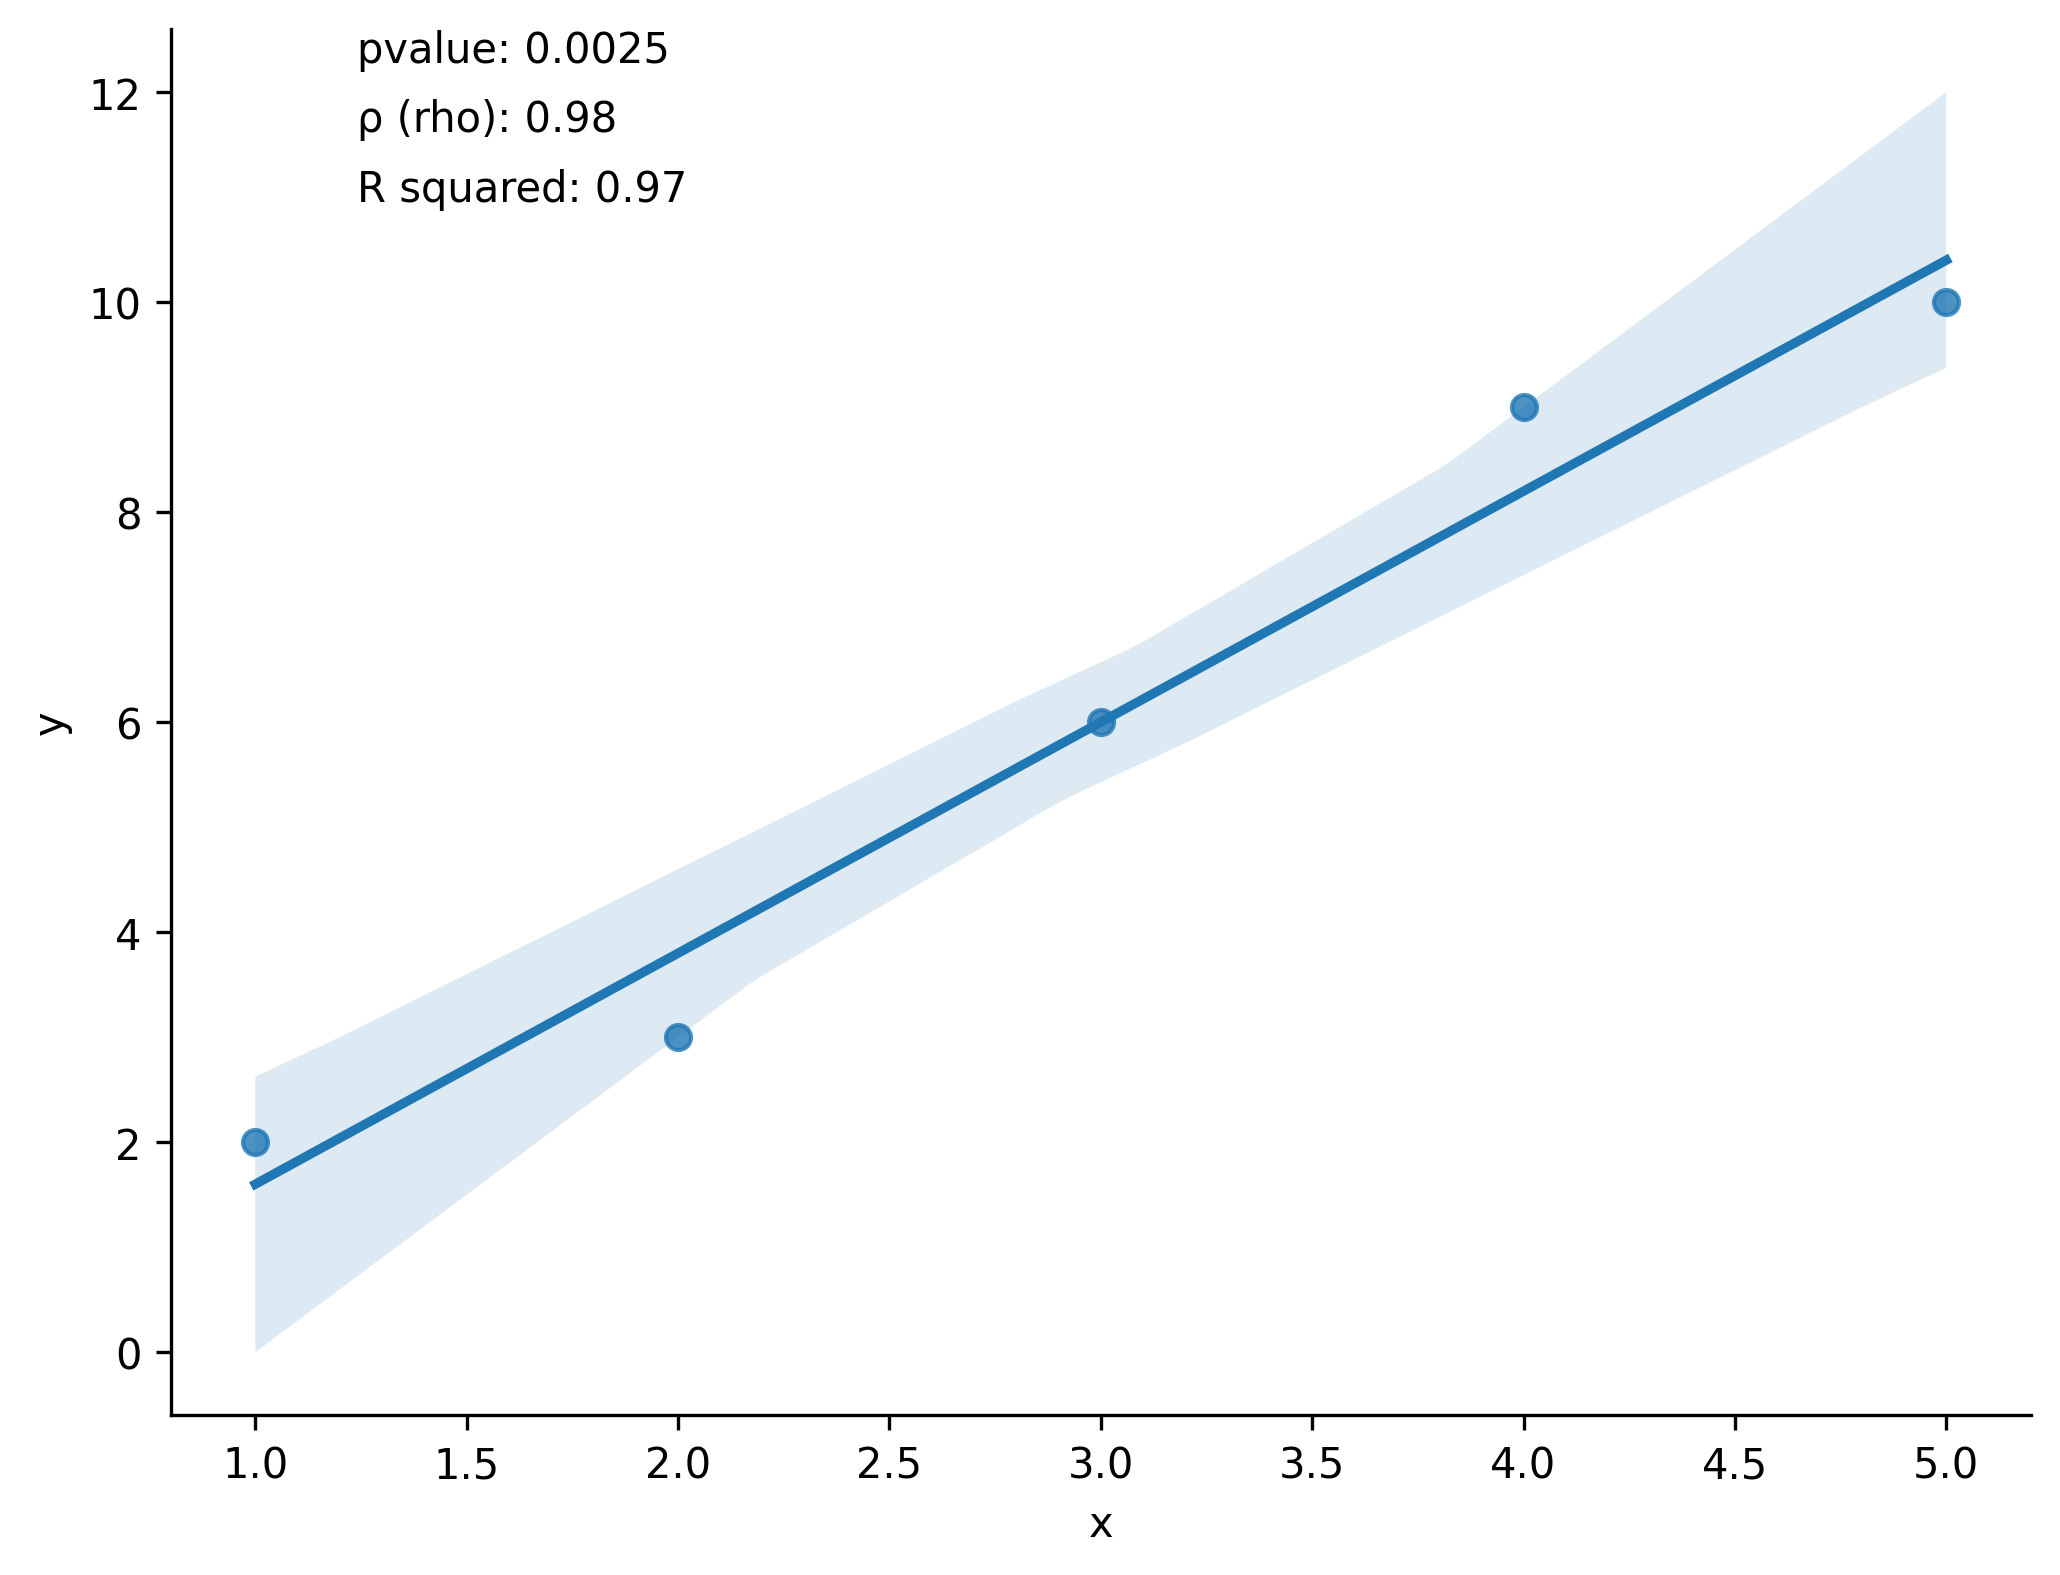
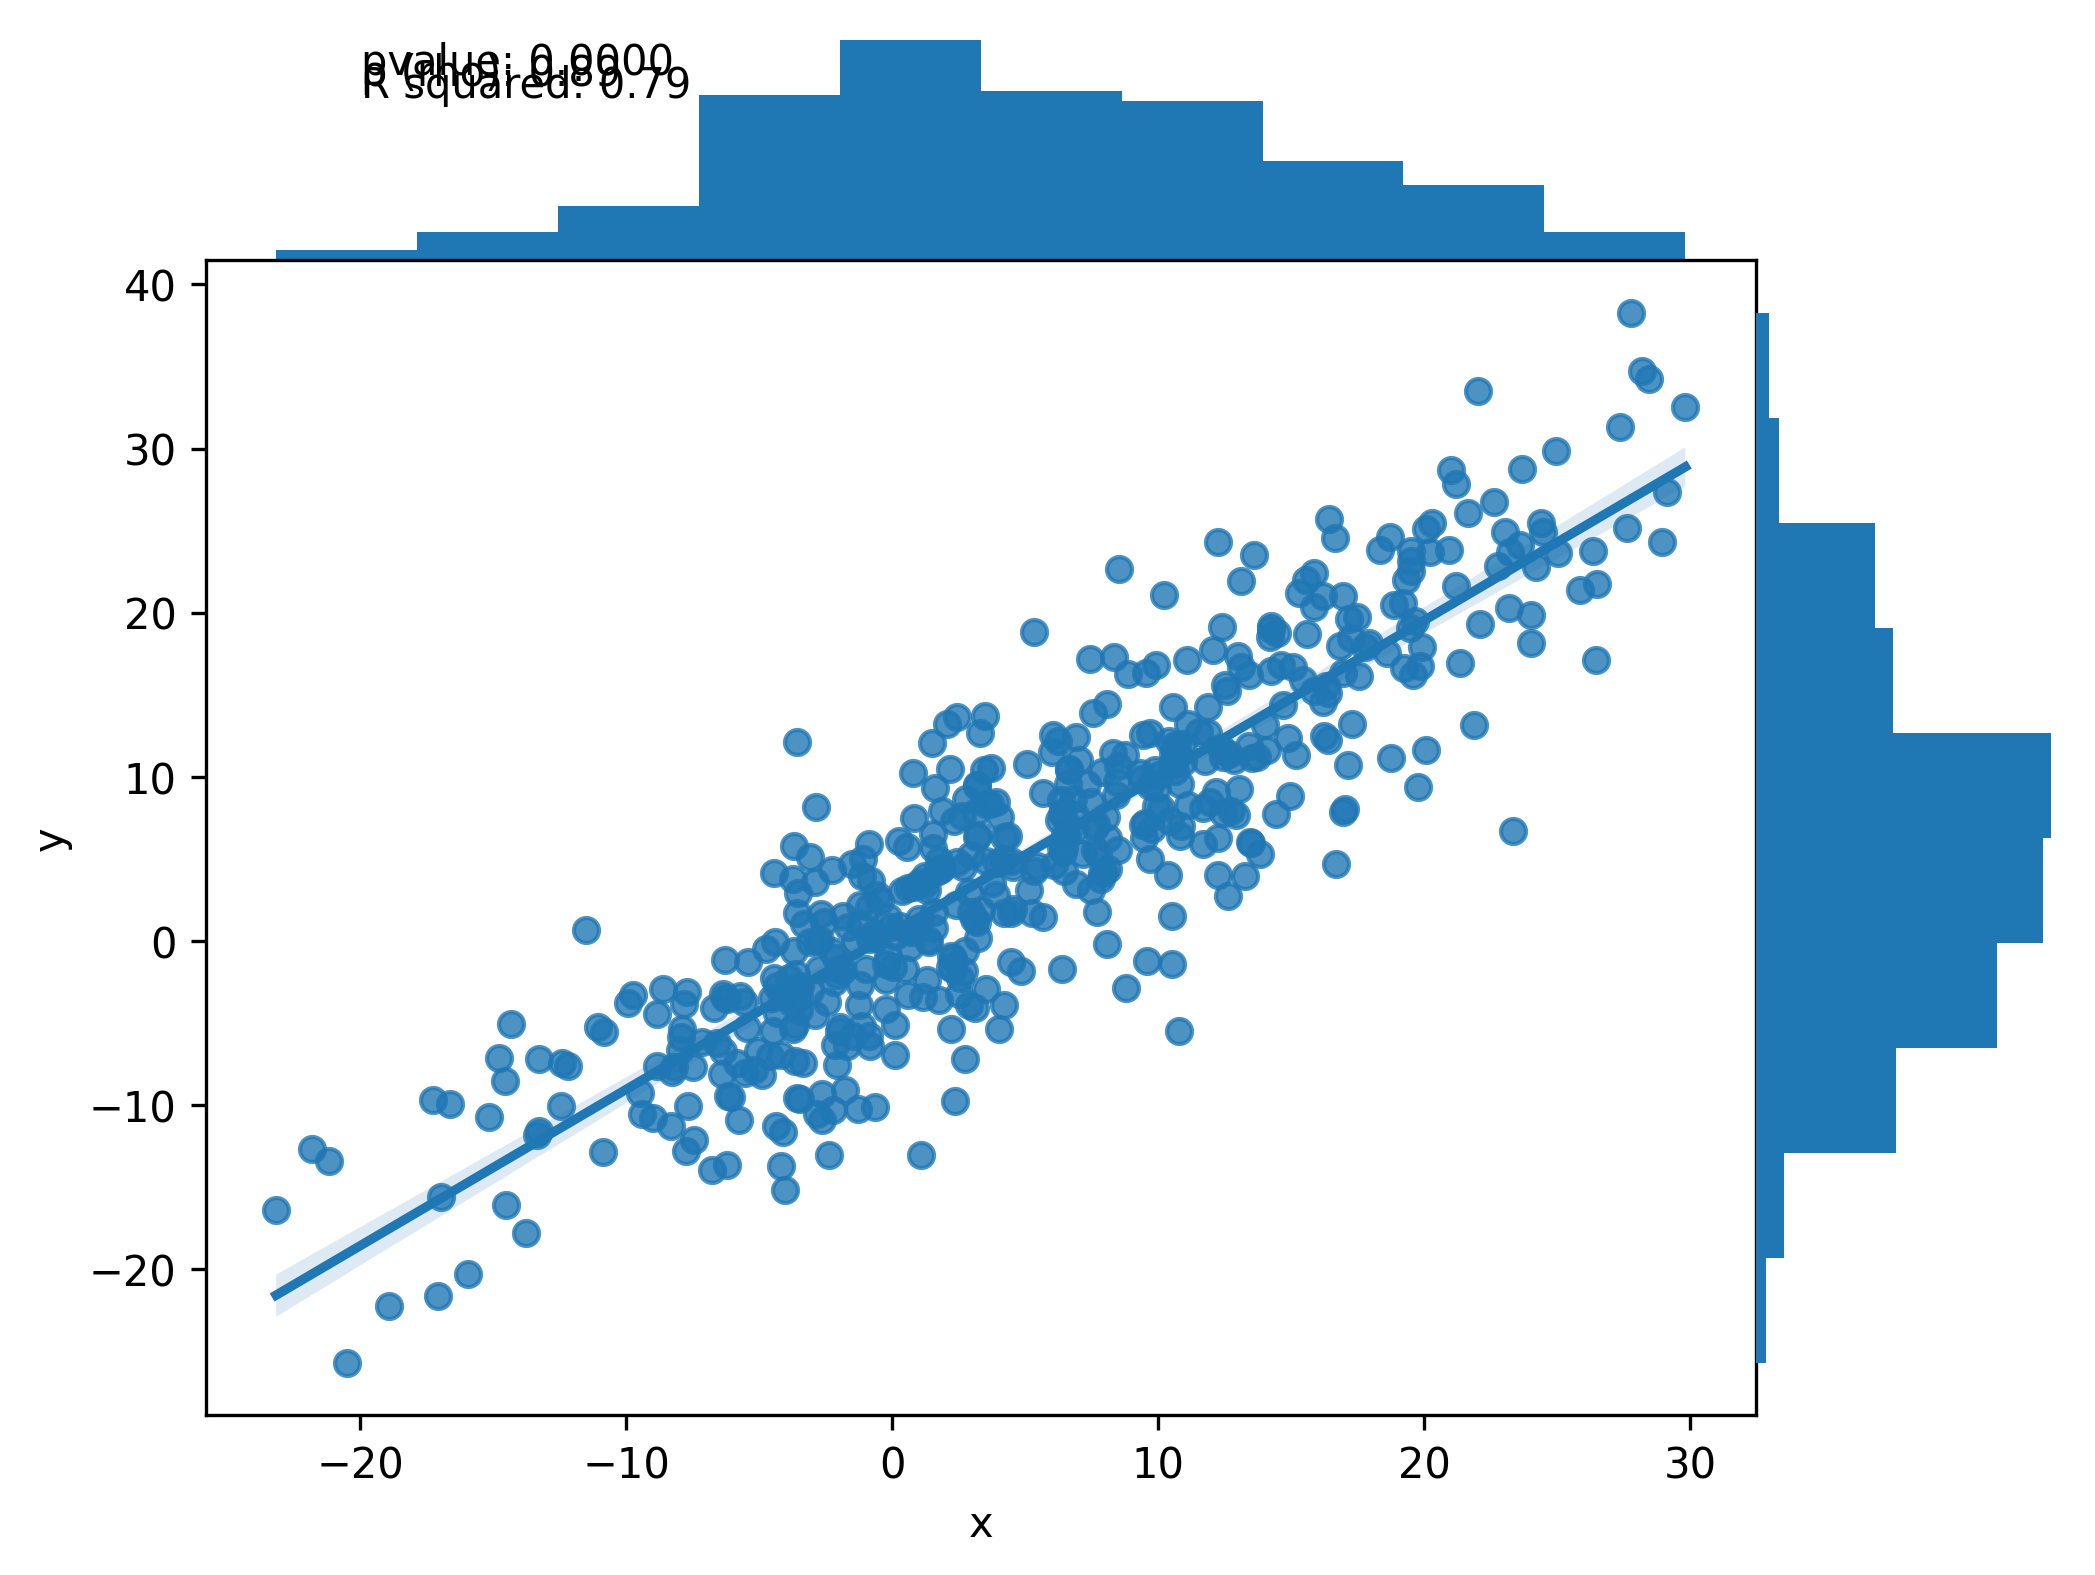
scatter stat

diff --git a/inferplot/scatterstats.py b/inferplot/scatterstats.py
@@ -11,7 +11,9 @@ def scatterstats(
     x: str,
     y: str,
     data: IntoDataFrame,
+    marginal: bool = True,
     ax: Union[matplotlib.axes.Axes, None] = None,
+    subplot_mosaic_kwargs: Union[dict, None] = None,
     **kwargs,
 ) -> matplotlib.axes.Axes:
     """
@@ -55,8 +57,25 @@ def scatterstats(
 
     ![img](https://raw.githubusercontent.com/JosephBARBIERDARNAL/inferplot/main/docs/img/scatterstats.png)
     """
-    if ax is None:
-        ax = plt.gca()
+    default_subplot_mosaic_kwargs = dict(
+        width_ratios=(5, 1), height_ratios=(1, 5), figsize=(8, 6)
+    )
+    if subplot_mosaic_kwargs is None:
+        subplot_mosaic_kwargs = {}
+    subplot_mosaic_kwargs.update(default_subplot_mosaic_kwargs)
+
+    if marginal:
+        scheme = """
+B.
+AC
+"""
+        fig, axs = plt.subplot_mosaic(scheme, **subplot_mosaic_kwargs)
+        fig.subplots_adjust(wspace=0, hspace=0)
+        ax = axs["A"]  # main Axes of the Figure
+    else:
+        if ax is None:
+            ax = plt.gca()
+        fig = plt.gcf()
 
     data = nw.from_native(data).to_pandas()
 
@@ -68,26 +87,31 @@ def scatterstats(
 
     sns.regplot(x=x, y=y, data=data, ax=ax, **kwargs)
 
-    annotation_params = dict(transform=ax.transAxes, va="top")
-    ax.text(x=0.1, y=1, s=f"pvalue: {p_value:.4f}", **annotation_params)
-    ax.text(x=0.1, y=0.95, s=f"ρ (rho): {r_value:.2f}", **annotation_params)
-    ax.text(x=0.1, y=0.9, s=f"R squared: {rsqr_value:.2f}", **annotation_params)
+    if marginal:
+        axs["B"].hist(data[x])
+        axs["C"].hist(data[y], orientation="horizontal")
 
-    ax.spines[["top", "right"]].set_visible(False)
+        axs["B"].axis("off")
+        axs["C"].axis("off")
 
-    return ax
+    annotation_params = dict(transform=fig.transAxes, va="top")
+    fig.text(x=0.1, y=0.95, s=f"pvalue: {p_value:.4f}", **annotation_params)
+    fig.text(x=0.1, y=0.9, s=f"ρ (rho): {r_value:.2f}", **annotation_params)
+    fig.text(x=0.1, y=0.85, s=f"R squared: {rsqr_value:.2f}", **annotation_params)
+
+    return fig if marginal else ax
 
 
 if __name__ == "__main__":
     import matplotlib.pyplot as plt
+    import numpy as np
     import pandas as pd
-    import inferplot
 
-    x = pd.Series([1, 2, 3, 4, 5])
-    y = pd.Series([2, 3, 6, 9, 10])
+    x = np.random.normal(loc=5, scale=10, size=500)
+    y = x + np.random.normal(loc=0, scale=5, size=500)
     data = pd.DataFrame({"x": x, "y": y})
 
-    fig, ax = plt.subplots(figsize=(8, 6))
-    inferplot.scatterstats("x", "y", data, ax=ax)
+    # fig, ax = plt.subplots(figsize=(8, 6))
+    scatterstats("x", "y", data)  # , ax=ax)
     plt.savefig("docs/img/scatterstats.png", dpi=300, bbox_inches="tight")
     plt.close()

diff --git a/README.md b/README.md
@@ -1,0 +1,23 @@
+# inferplot
+
+Inferplot is basically [ggstatsplot](https://indrajeetpatil.github.io/ggstatsplot/index.html), but for Python.
+
+I'm in the process of building a PoC to find out which library to use, to think about what form the graphs should take and so on. Any feedback is welcome (especially about the name, I'm not a big fan of inferplot).
+
+<br><br>
+
+## Current status/ideas
+
+- narwhals to handle dataframes
+- matplotlib/seaborn to handle plots
+- scipy to handle stats
+
+Ideally, those should be the only dependencies.
+
+<br><br>
+
+## Contributing
+
+The project is still in very early stages, so contributions are not possible yet.
+
+<br><br>
